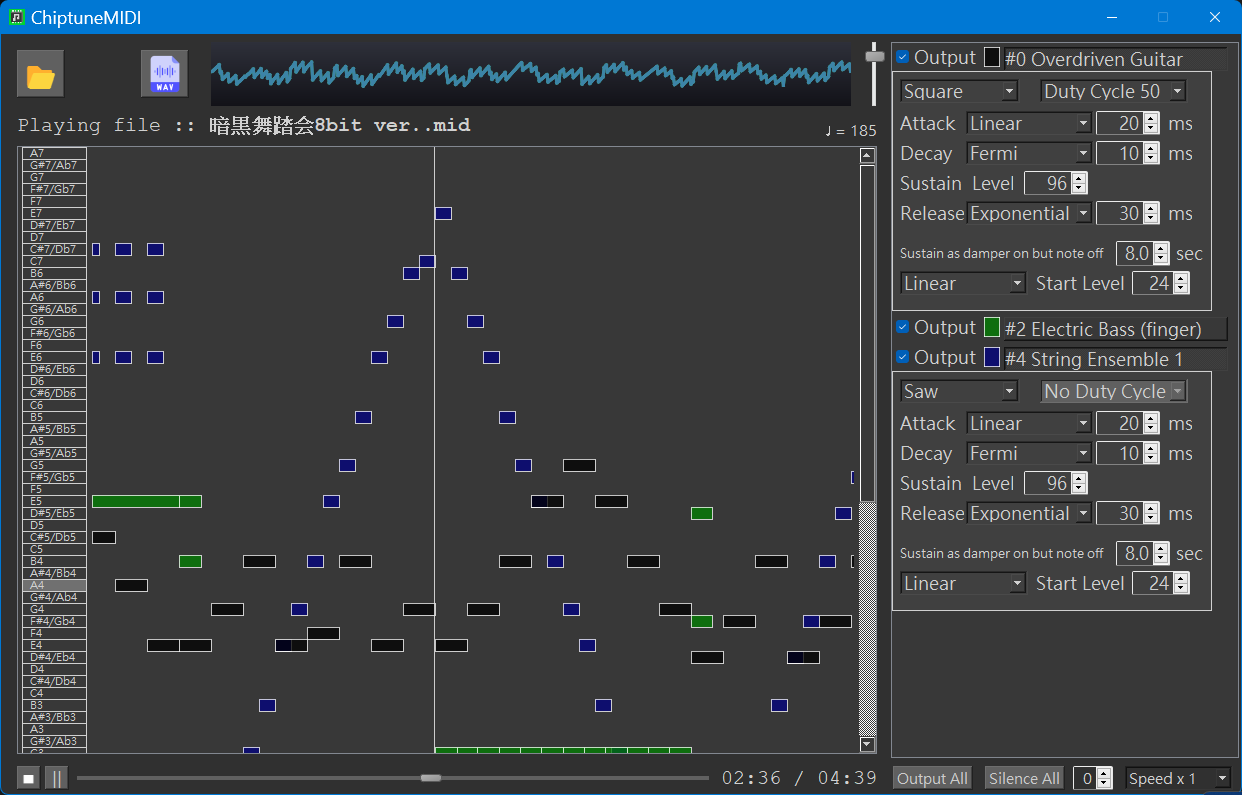
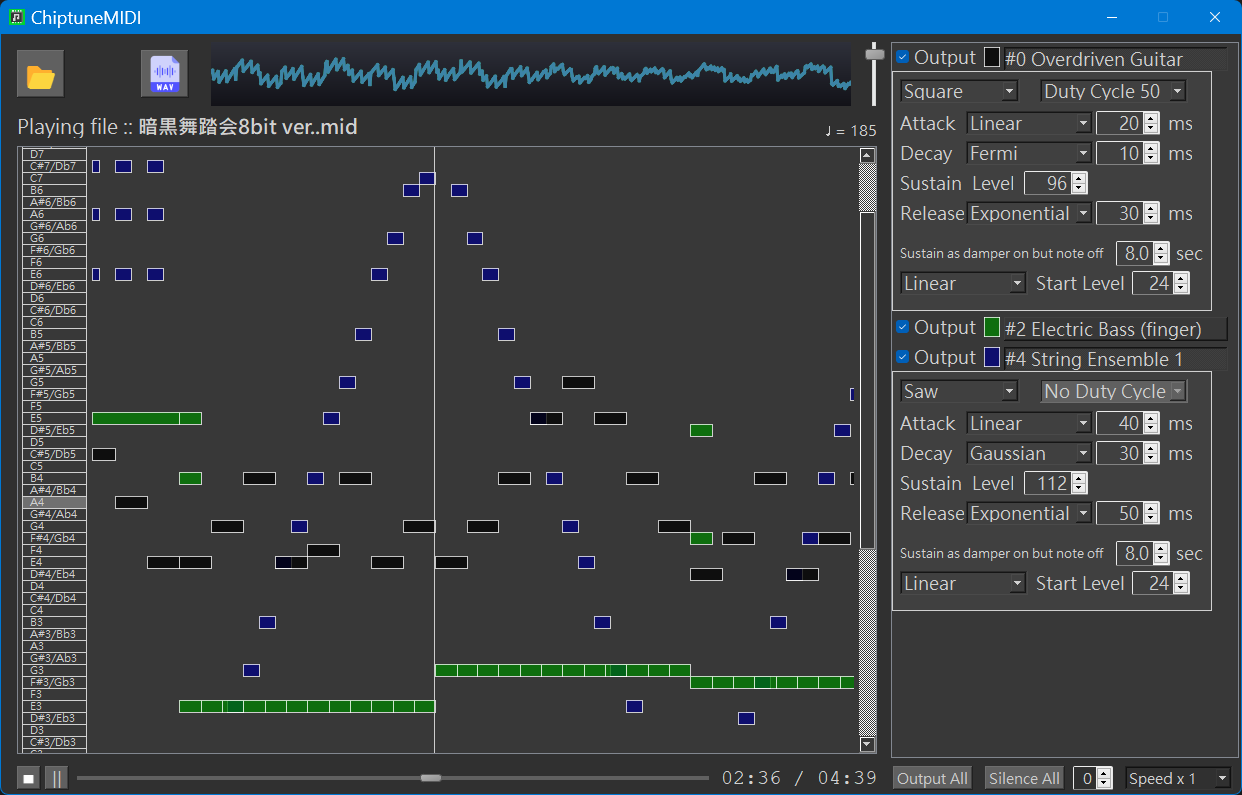
Fix(ui): correct misaligned text in MessageLabel by using appropriate font style. docs(screenshot): update screenshot to reflect fixed text alignment

diff --git a/qt/ChiptuneMidiWidget.cpp b/qt/ChiptuneMidiWidget.cpp
@@ -202,12 +202,18 @@ ChiptuneMidiWidget::ChiptuneMidiWidget(TuneManager *const p_tune_manager, QWidge
 #if QT_VERSION_CHECK(6, 0, 0) > QT_VERSION
 	SetFontSizeForWidgetSubtree(this, QWidget::font().pointSize() + 2, true);
 #endif
+	{
+		QFont font20("Monospace");
+		font20.setStyleHint(QFont::TypeWriter);
+		font20.setPixelSize(20);
+		ui->PlayPositionLabel->setFont(font20);
 
-	QFont font20("Monospace");
-	font20.setStyleHint(QFont::TypeWriter);
-	font20.setPixelSize(20);
-	ui->MessageLabel->setFont(font20);
-	ui->PlayPositionLabel->setFont(font20);
+		font20 = ui->MessageLabel->font();
+		font20.setStyleHint(QFont::SansSerif);
+		font20.setPixelSize(20);
+		ui->MessageLabel->setFont(font20);
+	}
+
 	do {
 		m_p_wave_chartview = new WaveChartView(
 					p_tune_manager->GetNumberOfChannels(),
